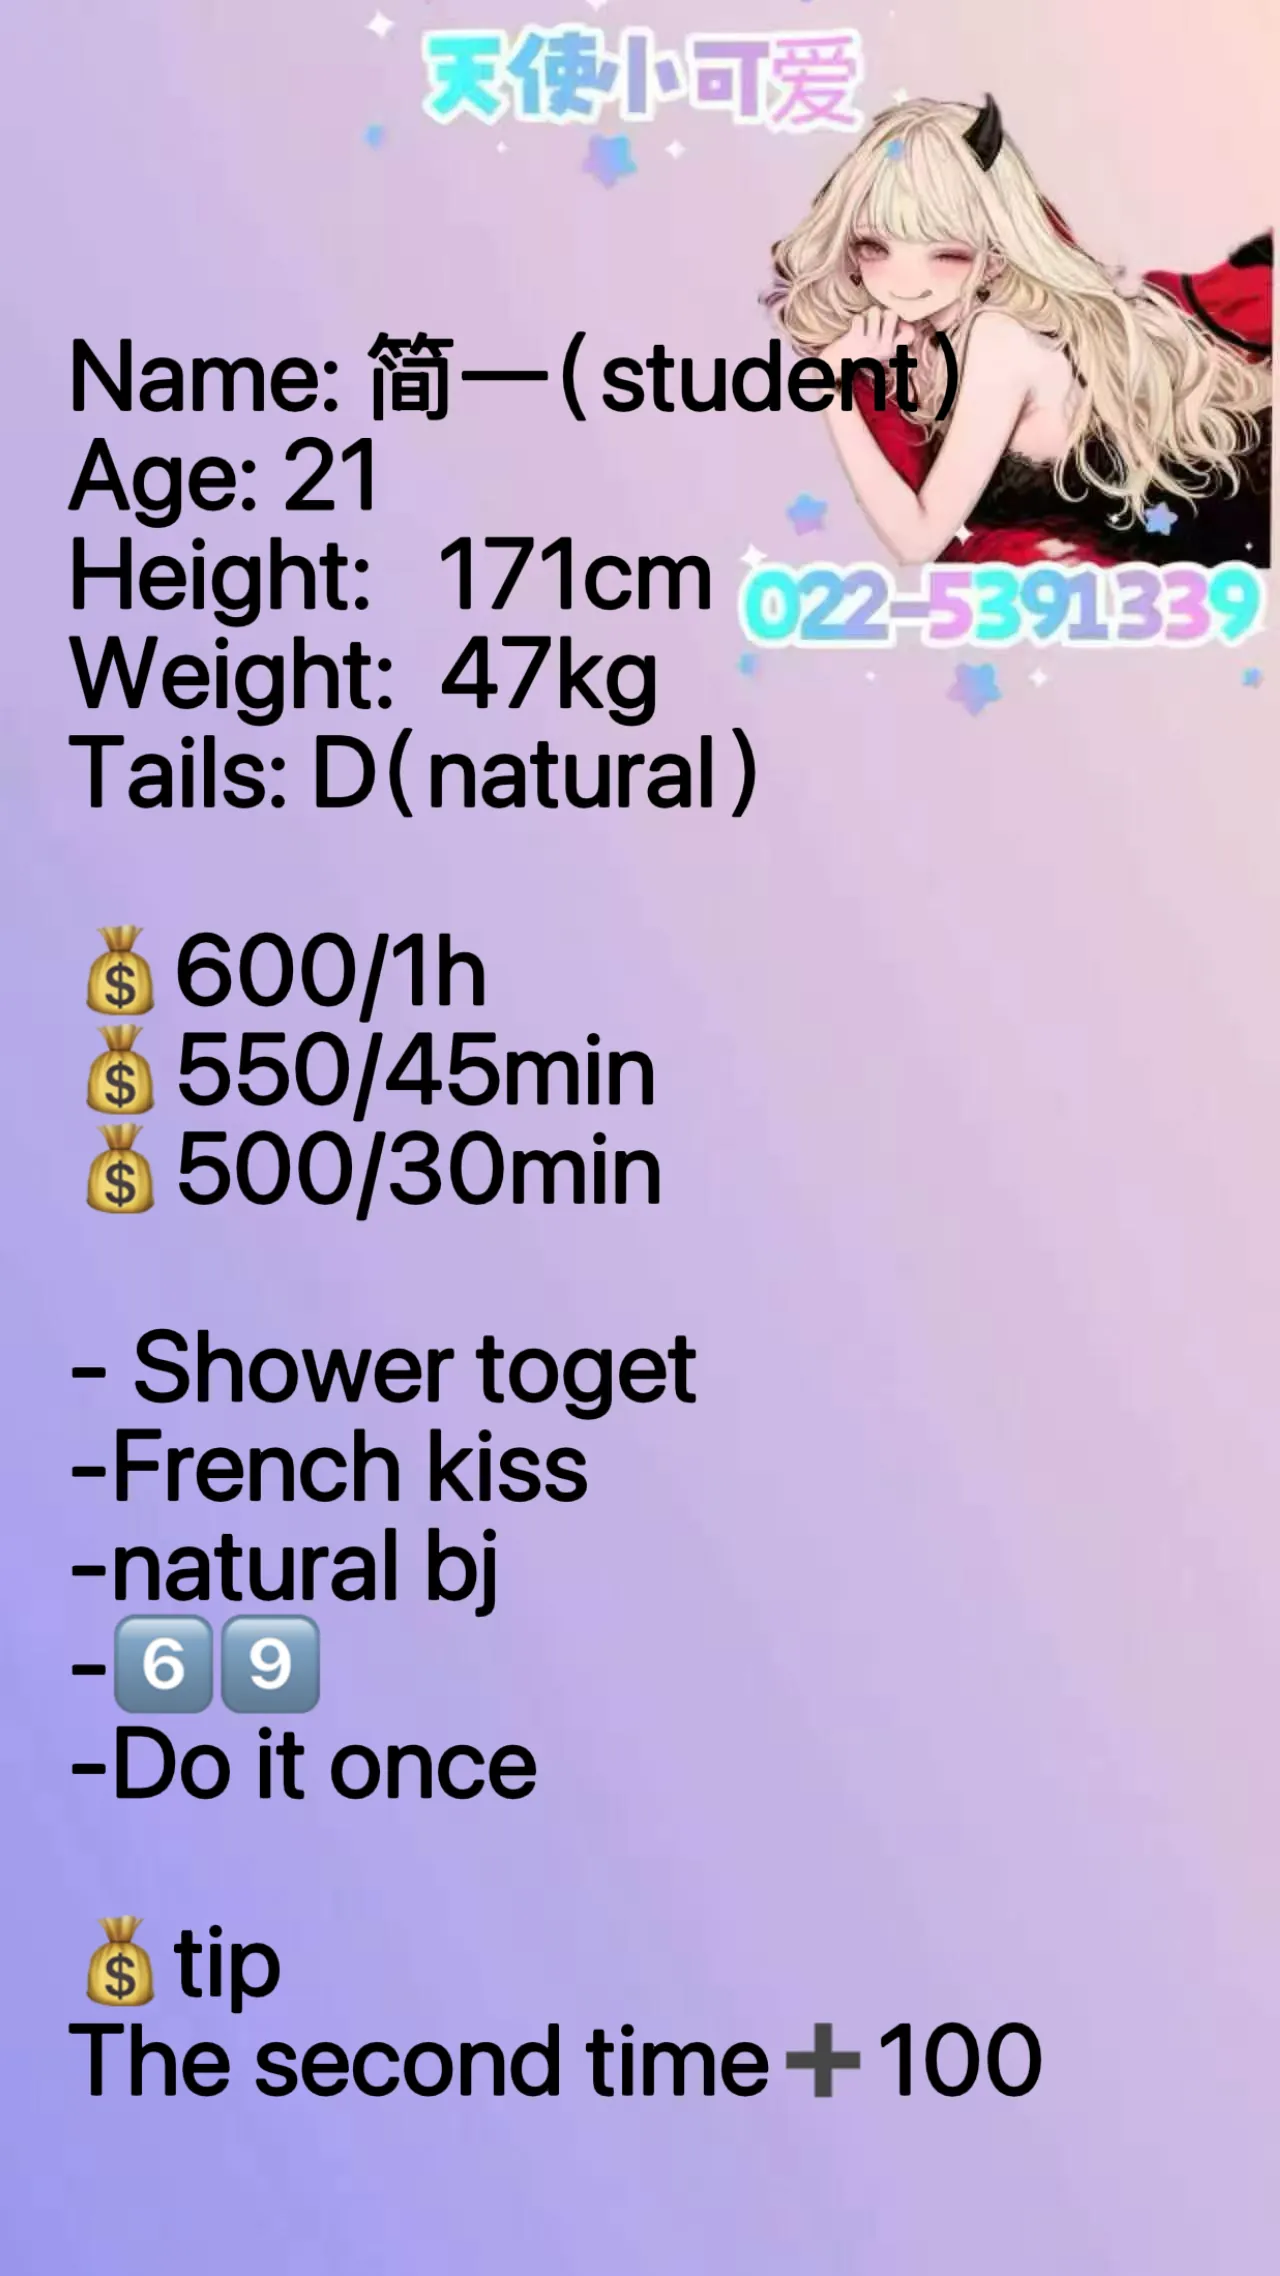
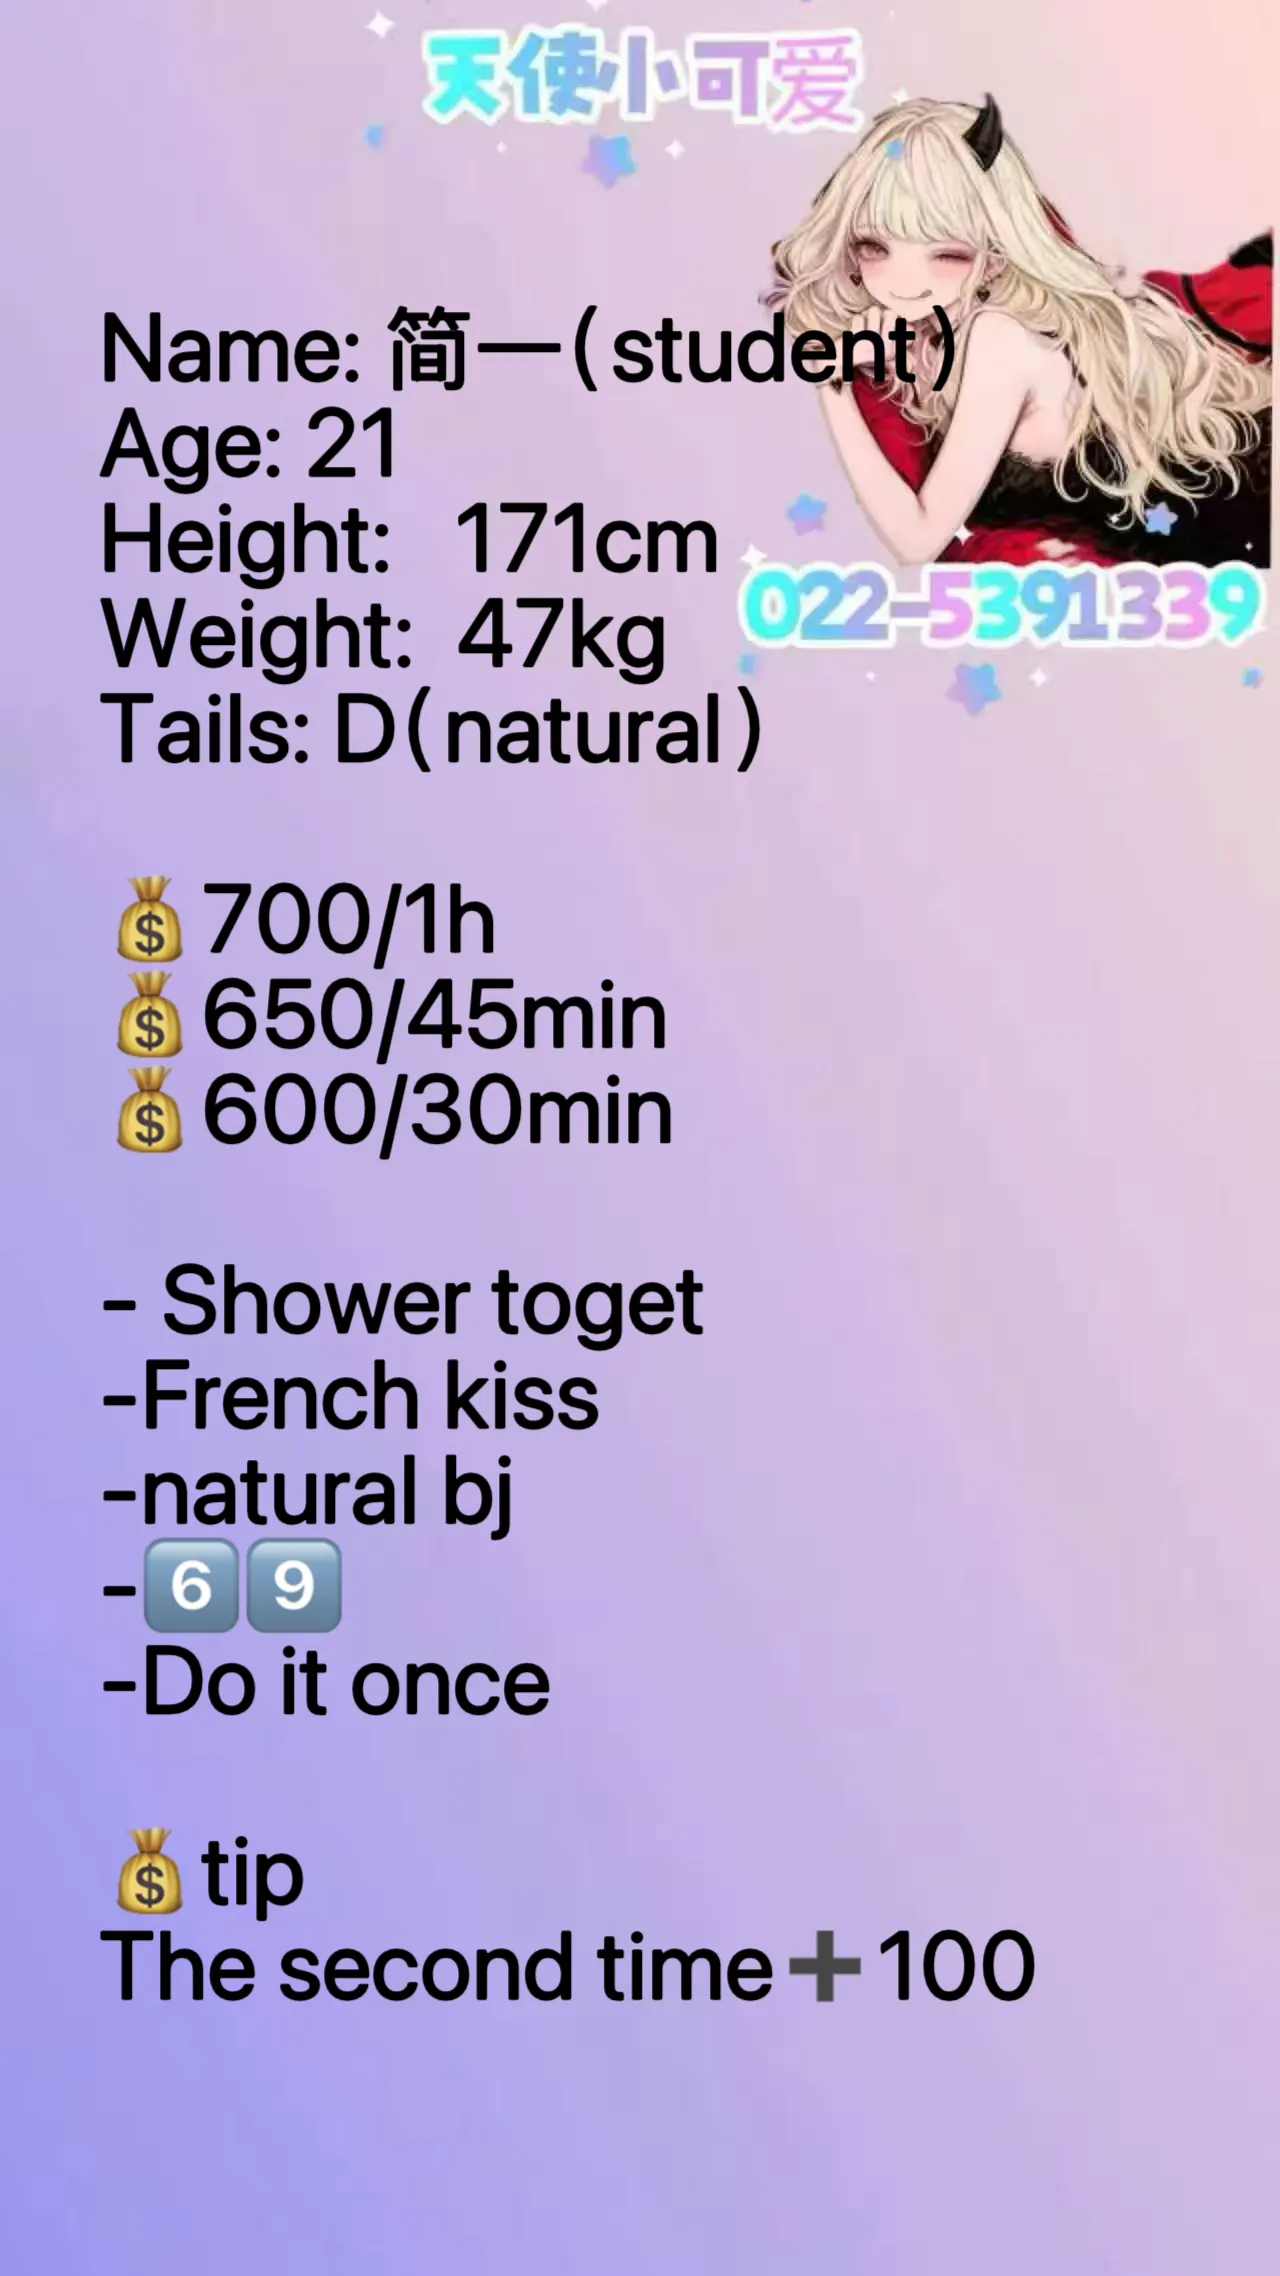
feat: Update Jianyi (简一) prices to 700/1h, 650/45m, 600/30m

Changed region(s): [[0.0312, 0.1248, 0.8125, 0.9359]]

diff --git a/src/lib/data.js b/src/lib/data.js
@@ -110,10 +110,10 @@ export const girls = [
     },
     image: "/images/girls/jianyi/cover.webp",
     description: {
-      en: "Sweet, gorgeous, and incredibly tall, Jianyi is a 21-year-old local undergraduate companion now serving CBD Auckland. Boasting top-tier looks resembling celebrity Yang Mi, a flawless fair complexion, and an impressive 171cm stature with natural D+ cup curves, she is an absolute dream companion. Her standard package ($600/1h) includes double shower play, water BJ, deep French kissing, stocks, breast massage, mutual oral (69), stockings, natural BJ, and 1 round. Upgrade to a second round for an extra $100. Cash only.",
+      en: "Sweet, gorgeous, and incredibly tall, Jianyi is a 21-year-old local undergraduate companion now serving CBD Auckland. Boasting top-tier looks resembling celebrity Yang Mi, a flawless fair complexion, and an impressive 171cm stature with natural D+ cup curves, she is an absolute dream companion. Her standard package ($700/1h) includes double shower play, water BJ, deep French kissing, stocks, breast massage, mutual oral (69), stockings, natural BJ, and 1 round. Upgrade to a second round for an extra $100. Cash only.",
       cn: "🆕高颜值高挑本地在读学生妹兼职空降！21岁的简一现已来到奥克兰市区 CBD 为您服务。她身高 171cm，体重 47kg，身材高挑完美，拥有令人惊叹的纯天然 D+ 罩杯。她长相酷似杨幂，肤白貌美无死角。1 小时套餐提供双人鸳鸯洗浴、水中吹箫、法式舌吻、胸推漫游、69 互动、无套口交及性感黑丝诱惑。提供 1 次激情温存，加收 $100 可升级做 2 次。仅收现金。",
     },
-    price: "$600 / 1h · $550 / 45min · $500 / 30min",
+    price: "$700 / 1h · $650 / 45min · $600 / 30min",
     services: {
       en: [
         "Shower together",
